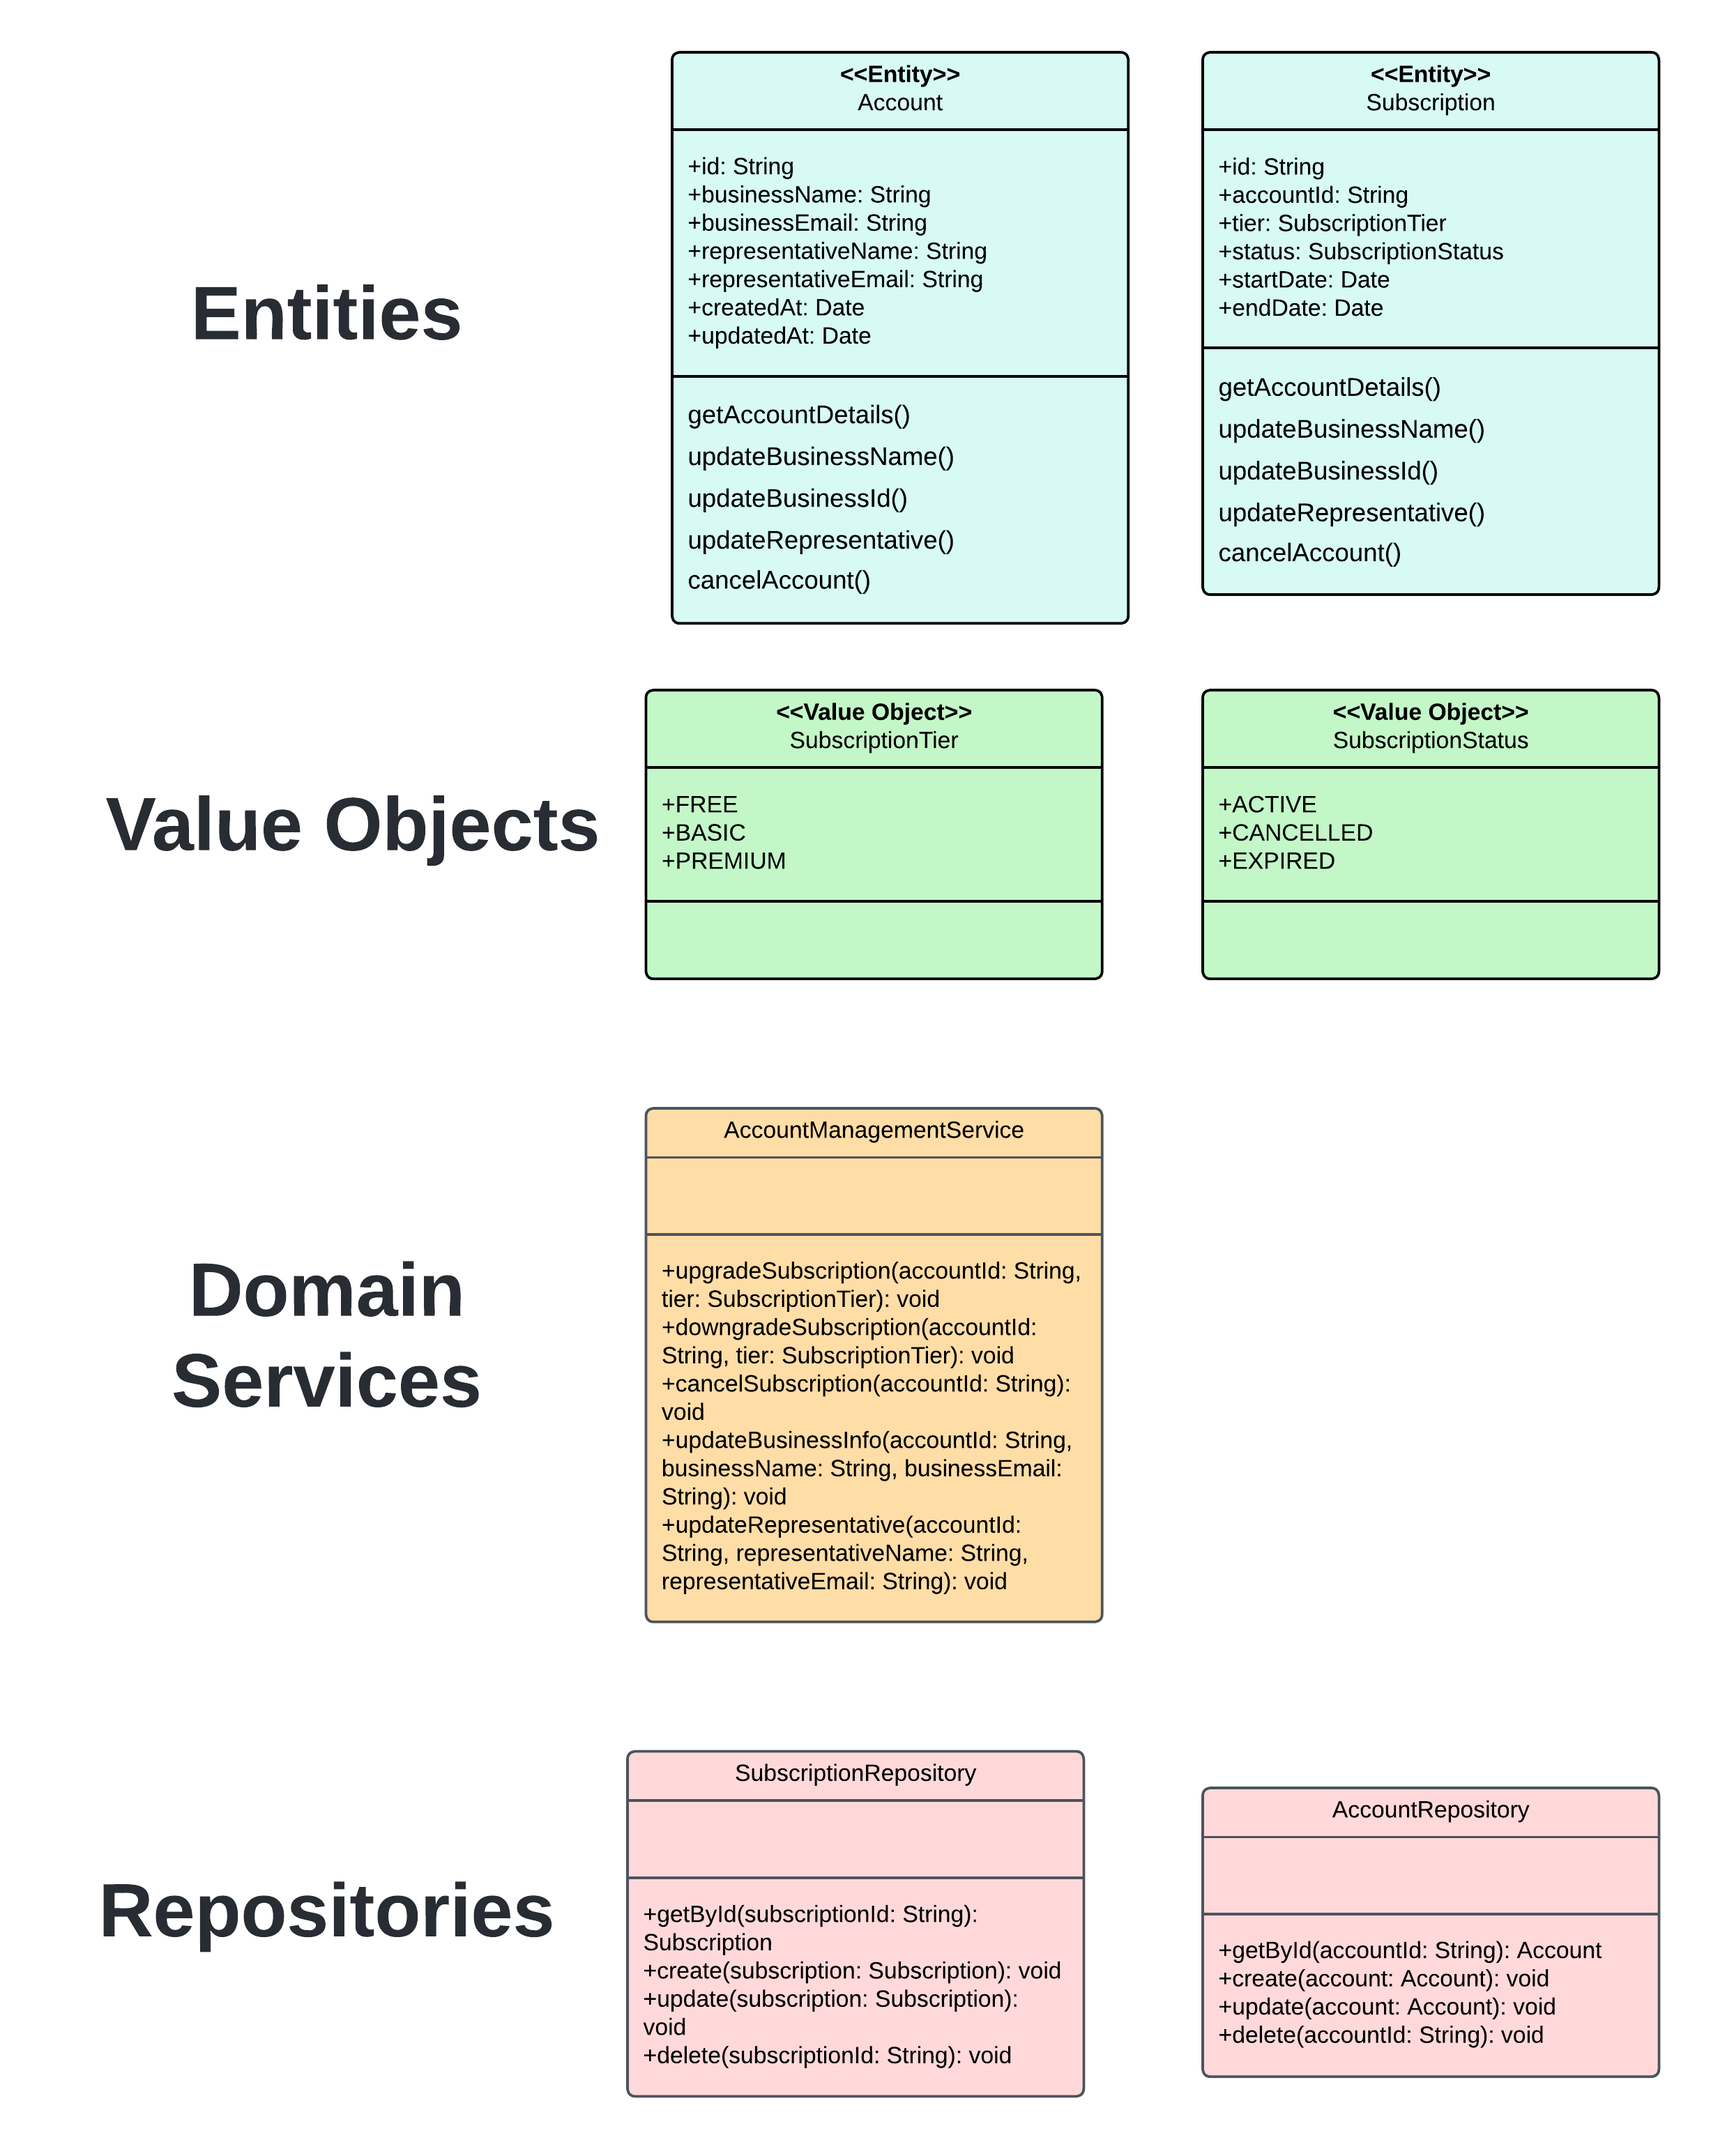
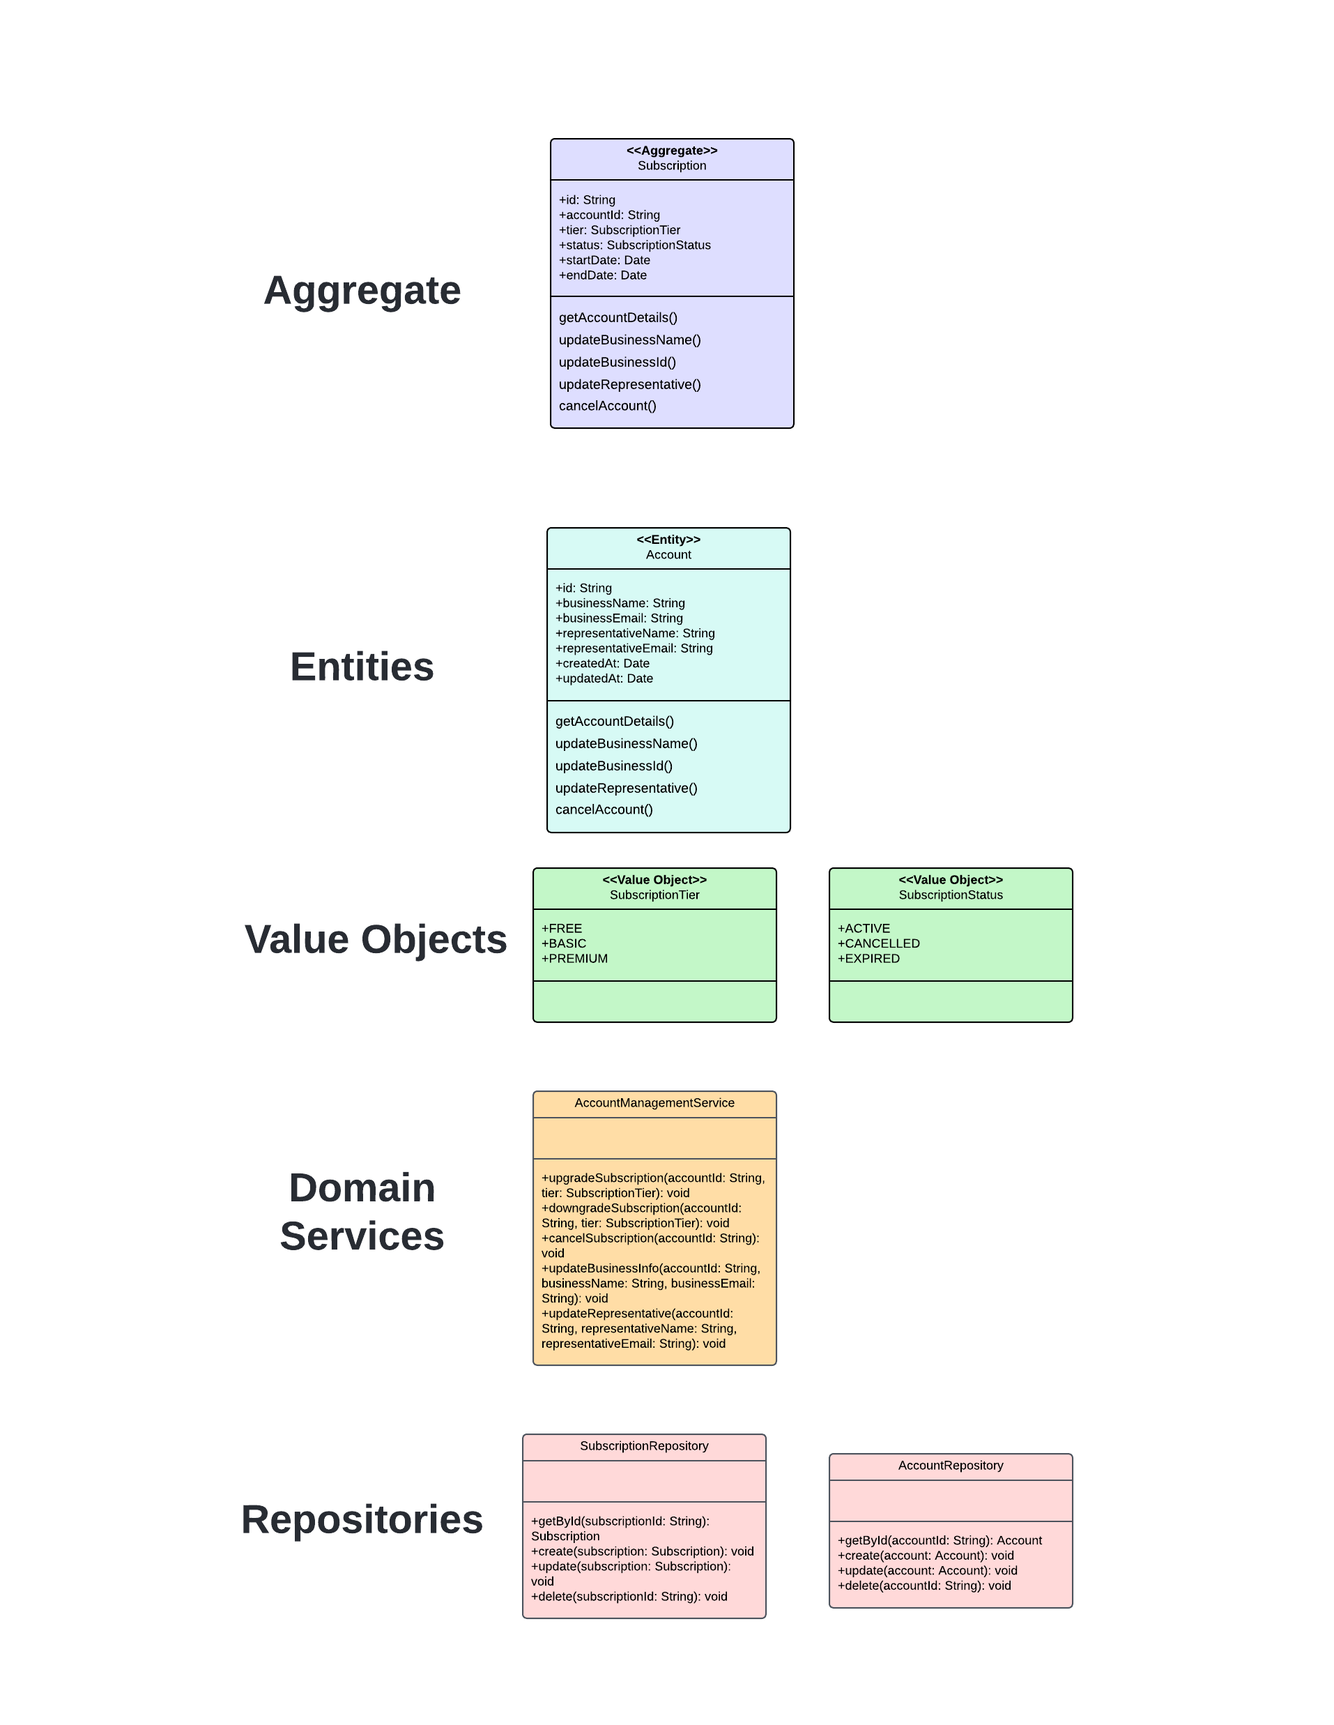
docs: aggregates of bounded context fixed and images replaced

diff --git a/docs/chapter-IV.md b/docs/chapter-IV.md
@@ -344,15 +344,15 @@ Los repositorios en la Capa de Infraestructura implementan las interfaces defini
 </p>
 
 #### 4.2.1.6. Bounded Context Software Architecture Code Level Diagrams
-![Account & Subscription Code Level Diagram](/img/account-management-class-diagram.png)
+
 
 ##### 4.2.1.6.1. Bounded Context Domain Layer Class Diagrams  
 
-![Account & Subscription Domain Layer Class Diagram](/img/account-management-database-diagram.png)
+![Account & Subscription Code Level Diagram](/img/account-management-class-diagram.png)
 
 
 ##### 4.2.1.6.2. Bounded Context Database Design Diagram  
-
+![Account & Subscription Domain Layer Class Diagram](/img/account-management-database-diagram.png)
 
 ### 4.2.2. Bounded User & Profile Management Context
 
@@ -468,7 +468,16 @@ Los repositorios en la Capa de Infraestructura implementan las interfaces defini
 
 #### 4.2.3.6. Bounded Context Software Architecture Code Level Diagrams
 ##### 4.2.3.6.1. Bounded Context Domain Layer Class Diagrams
+<p align="center">
+  <img src="/img/container-class-diagrama.png"/>
+</p>
+
 ##### 4.2.3.6.2. Bounded Context Database Design Diagram
+
+<p align="center">
+  <img src="/img/container-database-diagram.png"/>
+</p>
+
 
 ### 4.2.4. Bounded Groups Management Context
 El dominio de Group Management describe detalladamente las funciones y procesos que se llevan a cabo para la gestión de grupos dentro de nuestra plataforma. Este dominio es responsable de manejar todas las operaciones relacionadas con la creación, administración y mantenimiento de grupos. Esto incluye la vinculación y desvinculación de contenedores y usuarios a los grupos, la gestión de la ubicación geográfica de los grupos, y el registro de eventos importantes como la transferencia de contenedores entre grupos. El sistema garantiza que los grupos estén organizados de manera eficiente y que las operaciones de vinculación, desvinculación y administración se realicen sin inconvenientes, proporcionando un entorno bien estructurado y adaptable para los usuarios.
@@ -481,7 +490,7 @@ El Diccionario de Clases es una herramienta clave en el proceso de diseño y des
 #### 4.2.4.1. Domain Layer
 La Capa de Dominio (Domain Layer) es responsable de representar los conceptos principales y las reglas de negocio de Group Management. Esta capa se compone de entidades, objetos de valor y servicios de dominio que encapsulan la lógica central del sistema. A continuación, se describen las principales clases y objetos de valor que forman parte del dominio de gestión de grupos.
 
-![Group Domain Layer](/img/group-domain-layer.jpeg)
+![Group Domain Layer](/img/group-domain-layer.png)
 
 
 #### 4.2.4.2. Interface Layer
